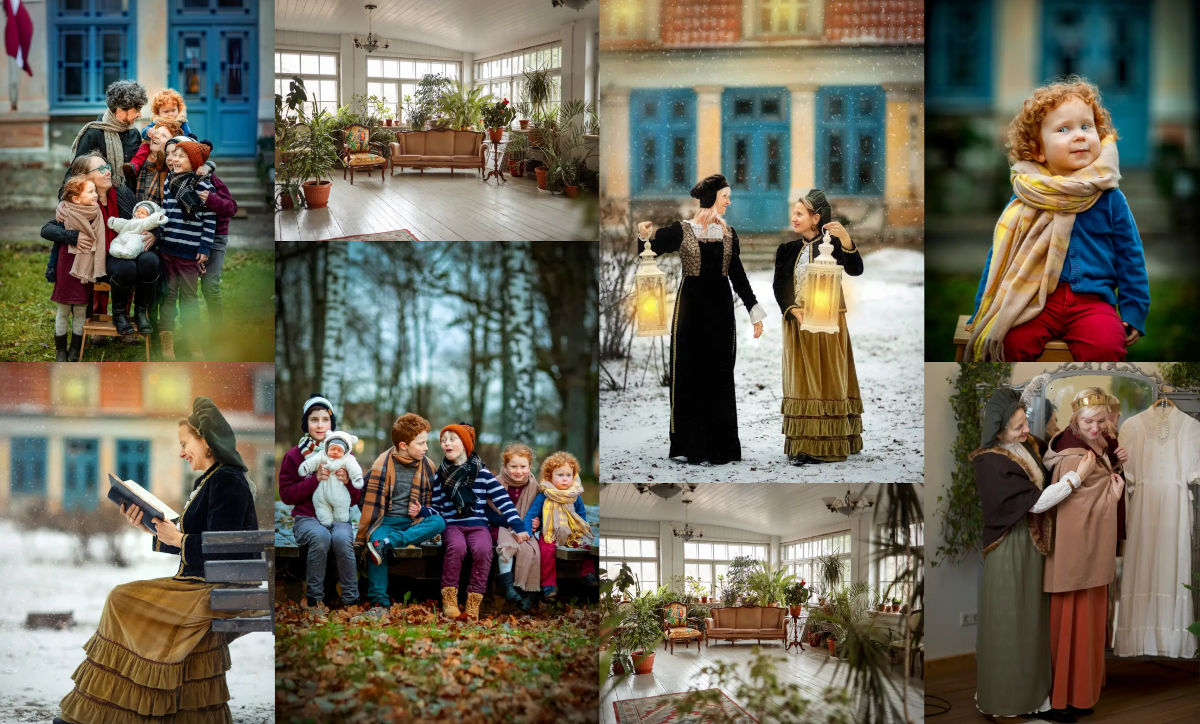
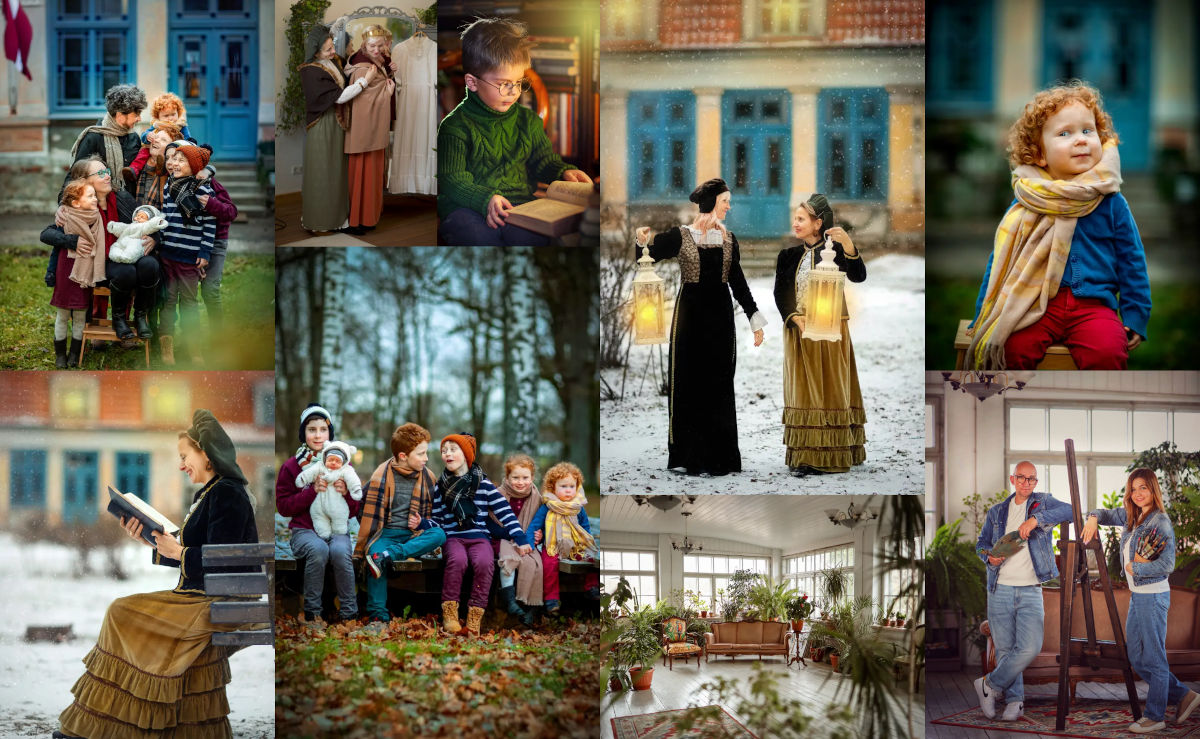
Fotosesija imrpved

diff --git a/resources/sass/pages/services/_photo_session.scss b/resources/sass/pages/services/_photo_session.scss
@@ -6,7 +6,7 @@
 
     img {
         height: 100%;
-        max-height: 450px;
+        max-height: 480px;
         width: 100%;
         object-fit: cover;
         object-position: 50% 60%;
@@ -28,6 +28,10 @@
     @include md-breakpoint {
         grid-template-columns: 1fr;
         gap: 2rem;
+
+        img {
+            max-height: 450px;
+        }
     }
 }
 
@@ -37,7 +41,7 @@
     --aspect-ratio: 1.62;
     height: calc(min(1340px, 80vw) / var(--aspect-ratio));
     display: grid;
-    grid-template-columns: 14% repeat(8, 1fr) 14%;
+    grid-template-columns: 14% 2fr repeat(4, 1.5fr) repeat(4, 2fr) 14%;
     grid-template-rows: repeat(6, 1fr);
     overflow: hidden;
     border-radius: 3px;
@@ -70,15 +74,19 @@
         grid-row: 1 / span 3;
     }
     .image:nth-child(2) {
-        grid-column: 3 / span 3;
+        grid-column: 3 / span 2;
+        grid-row: 1 / span 2;
+    }
+    .image:nth-child(9) {
+        grid-column: 5 / span 2;
         grid-row: 1 / span 2;
     }
     .image:nth-child(3) {
-        grid-column: 6 / span 3;
+        grid-column: 7 / span 3;
         grid-row: 1 / span 4;
     }
     .image:nth-child(4) {
-        grid-column: 9 / span 2;
+        grid-column: 10 / span 2;
         grid-row: 1 / span 3;
     }
     .image:nth-child(5) {
@@ -86,38 +94,38 @@
         grid-row: 4 / span 3;
     }
     .image:nth-child(6) {
-        grid-column: 3 / span 3;
+        grid-column: 3 / span 4;
         grid-row: 3 / span 4;
     }
     .image:nth-child(7) {
-        grid-column: 6 / span 3;
+        grid-column: 7 / span 3;
         grid-row: 5 / span 2;
     }
     .image:nth-child(8) {
-        grid-column: 9 / span 2;
+        grid-column: 10 / span 2;
         grid-row: 4 / span 3;
     }
 
     @include md-breakpoint {
         margin-top: 2.5rem;
         --aspect-ratio: 0.38;
-        grid-template-columns: 28% repeat(3, 1fr) 28%;
+        grid-template-columns: 28% 2fr repeat(4, 1.5fr);
         grid-template-rows: repeat(12, 1fr);
 
         .image:nth-child(3) {
             grid-column: 1 / span 3;
-            grid-row: 7 / span 4;
+            grid-row: 9 / span 4;
         }
         .image:nth-child(4) {
-            grid-column: 4 / span 2;
+            grid-column: 4 / span 3;
             grid-row: 7 / span 3;
         }
         .image:nth-child(7) {
             grid-column: 1 / span 3;
-            grid-row: 11 / span 2;
+            grid-row: 7 / span 2;
         }
         .image:nth-child(8) {
-            grid-column: 4 / span 2;
+            grid-column: 4 / span 3;
             grid-row: 10 / span 3;
         }
     }

diff --git a/resources/views/services/photo_session.blade.php b/resources/views/services/photo_session.blade.php
@@ -4,6 +4,10 @@
       <img src={{ asset("images/services/photo-session/karina-jurcina.jpeg") }} alt="Karīna Jurciņa">  
     <div>
       <p>
+        Ruckas muiža piedāvā iespēju notvert īpašos dzīves mirkļus kadros pieredzējušās
+        fotogrāfes Karīnas Jurciņas vadībā!
+      </p>
+      <p>
         <strong>Karīna Jurciņa</strong> ir profesionāla fotogrāfe ar <strong>17 gadu pieredzi</strong>.
       </p>
       <p style="margin-bottom: 0.5rem;">
@@ -42,14 +46,15 @@
       >
     </a>
     <a class="image"
-       href="{{url("images/services/photo-session/oranzerija-gaisa.jpg")}}"
-       data-pswp-width="2048" 
-       data-pswp-height="1434"
+       href="{{url("images/services/photo-session/sievietes-pie-kleitas.jpg")}}"
+       data-pswp-width="1435" 
+       data-pswp-height="2048"
     >
-      <img src={{ asset("images/services/photo-session/oranzerija-gaisa-sm.webp") }}
-           alt="Ruckas muižas oranžērija"
+      <img src={{ asset("images/services/photo-session/sievietes-pie-kleitas-sm.webp") }}
+           alt="Divas sievietes Ruckas muižā"
            loading="lazy"
       >
+    </a>
     </a>
     <a class="image"
        href="{{url("images/services/photo-session/sievietes-pie-muizas.jpg")}}"
@@ -102,15 +107,26 @@
       >
     </a>
     <a class="image"
-       href="{{url("images/services/photo-session/sievietes-pie-kleitas.jpg")}}"
+       href="{{url("images/services/photo-session/gleznotaji.jpg")}}"
        data-pswp-width="1435" 
        data-pswp-height="2048"
     >
-      <img src={{ asset("images/services/photo-session/sievietes-pie-kleitas-sm.webp") }}
+      <img src={{ asset("images/services/photo-session/gleznotaji.jpg") }}
            alt="Divas sievietes Ruckas muižā"
            loading="lazy"
       >
     </a>
+    <a class="image"
+       href="{{url("images/services/photo-session/zens-lasa.jpg")}}"
+       data-pswp-width="1435" 
+       data-pswp-height="2048"
+    >
+      <img src={{ asset("images/services/photo-session/zens-lasa.jpg") }}
+           alt="Divas sievietes Ruckas muižā"
+           loading="lazy"
+      >
+    </a>
+    
 
   </div>
 </x-layouts.simple-page>
